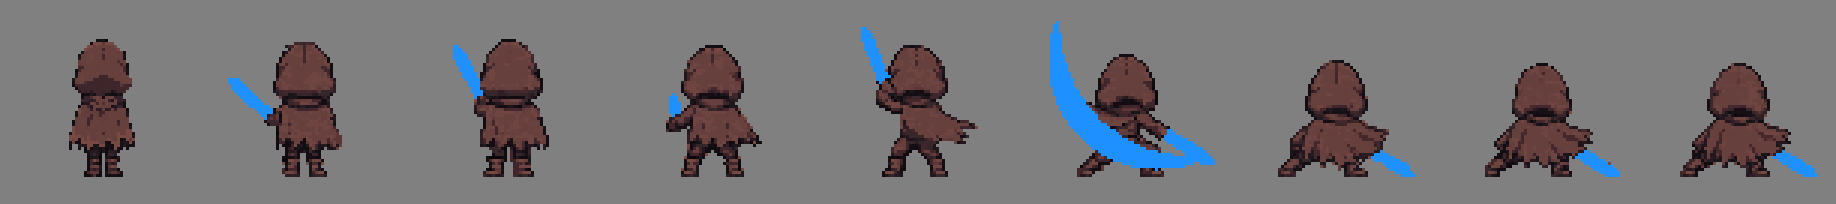
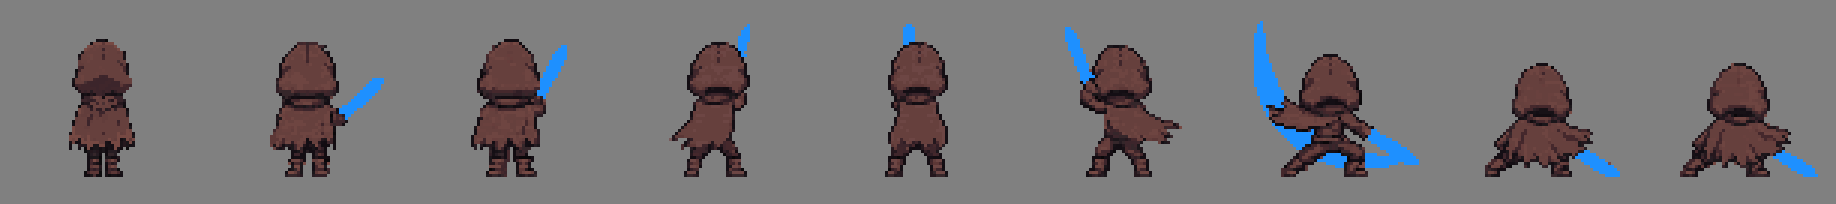
assets: 후면 1타 머리 위 사이 장·비교 녹화, 기록 (D-048)

diff --git a/docs/HANDOFF.md b/docs/HANDOFF.md
@@ -18,7 +18,7 @@
 
 ## 2026-11-18 — 후면 1타 방향·잔상 다듬기 (Claude Code)
 - 브랜치 / 마지막 커밋: `claude/golem-stomp-vfx` / 이 항목을 담은 커밋
-- 한 일: 후면 1타를 좌우로 뒤집어 칼을 왼쪽으로 옮긴 뒤 왼쪽 위 → 오른쪽 아래로 벰. 베는 순간 초승달 잔상을 몸 뒤로 옮기고, 가운데가 끊기던 것을 고침.
+- 한 일: 후면 1타: 오른쪽 어깨에서 칼을 꺼내 듦 → 머리 위로 넘김(PixelLab 사이 장 2장) → 왼쪽 위 → 왼쪽 위에서 오른쪽 아래로 벰. 베는 순간 초승달 잔상을 몸 뒤로 옮기고, 가운데가 끊기던 것을 고침. 박자는 정면 1타와 같은 표.
 - 현재 상태: `python -m unittest` 276개 통과. 게임 창 녹화로 확인 (`attack_back_kit/hit1_views_ingame_slow.gif`), 실제 모니터 플레이는 안 함.
 - 다음 작업자가 알아야 할 것: 후면 1타는 `build_attack_back_v2.py` → `export_to_game.py`. 잔상 순서는 `build_remake_preview.SMEAR_ON_TOP`/`KEEP_WHOLE_SMEAR`.
 - 남은 문제 / 다음 할 일: 사용자 확인 후 후면 2·3타도 같은 방법(정면 8장을 뒤에서 본 GPT 그림 → 화풍·색 맞춤)으로. 푸시 보류.

diff --git a/docs/DECISIONS.md b/docs/DECISIONS.md
@@ -766,6 +766,10 @@
   - (같은 날 사용자: 칼을 꺼내 왼쪽으로 옮긴 뒤 왼쪽에서 오른쪽으로 베게) 뒷모습은 거의 좌우 대칭이라 몸·잔상·칼 자리를 좌우로 뒤집었다 (`MIRROR`).
   - (같은 날 사용자: 벨 때 잔상은 캐릭터 뒤여야 하고, 가운데가 지워짐) 뒷모습이라 칼은 몸 너머이므로 판정 장 잔상을 몸 **뒤**에 깔고
     (`SMEAR_ON_TOP` 에서 뺌), 직접 그린 잔상은 원본 칼 자리 지우기(`near_sword`)를 건너뛴다 (`KEEP_WHOLE_SMEAR`).
+  - (같은 날 사용자: 예전처럼 오른쪽에서 꺼낸 다음 왼쪽으로 옮겨 베게) 장 순서를 `build_attack_back_v2.ORDER` 로 다시 짰다:
+    뒤집지 않은 1·2번(오른쪽 어깨에서 꺼내 듦) → PixelLab `animate_image` 가 오른쪽 위 → 왼쪽 위 사이를 그린 머리 위 두 장
+    (`hit1_v2/overhead/o1, o2`) → 뒤집은 4번(왼쪽 위) → 6번째 판정 잔상 → 뒤집은 7·8번 마무리. 판정 장이 6번째가 되어
+    후면 1타 프레임 표를 정면 1타와 같게 했다 (`PLAYER_ATTACK_FRAME_ENDS_BACK[0]`, 0.5 에 벰).
 
 ## D-049 등에 멘 칼
 
